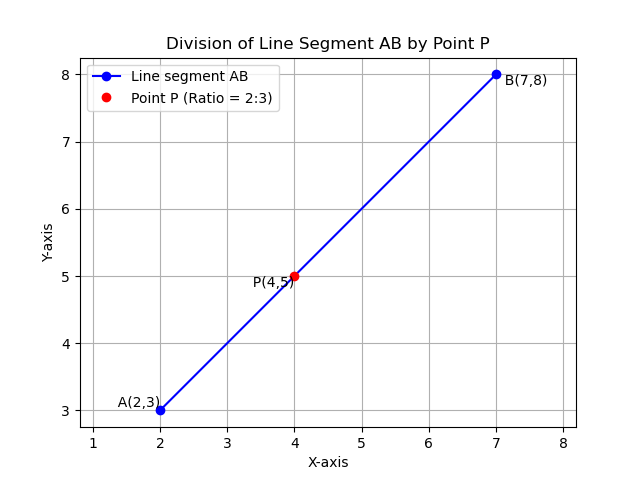
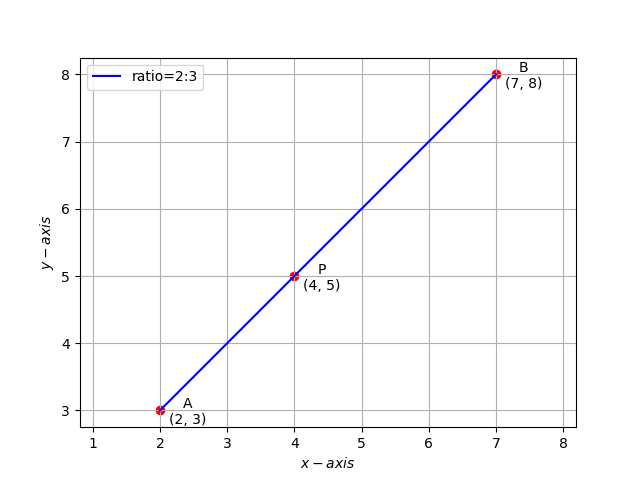
first

diff --git a/assign2/codes/o.py b/assign2/codes/o.py
@@ -1,4 +1,5 @@
 import matplotlib.pyplot as plt
+import numpy as np
 
 output_file_path = 'output.txt'
 
@@ -8,26 +9,64 @@ with open("output.txt", 'r') as file:
 import re
 match = re.search(r'(\d+):(\d+)\.', output)
 if match:
-    m = int(match.group(1))
-    n = int(match.group(2))
+    m1 = int(match.group(1))
+    m2 = int(match.group(2))
+#Given points
+A = np.array(([2,3])).reshape(-1,1)
+B = np.array(([7,8])).reshape(-1,1)
 
-x2, y2 = 2, 3  
-x3, y3 = 7, 8  
-x1, y1 = 4, 5  
+n=m2/m1
 
-plt.plot([x2, x3], [y2, y3], 'bo-', label='Line segment AB')
-plt.plot(x1, y1, 'ro', label=f'Point P (Ratio = {m}:{n})')
+#Point
+P= (B+n*A)/(1+n) # calculating the coordinate points of R which divides the join between the two points
+#print(R)
 
-plt.text(x2, y2, '  A(2,3)', verticalalignment='bottom', horizontalalignment='right')
-plt.text(x3, y3, '  B(7,8)', verticalalignment='top', horizontalalignment='left')
-plt.text(x1, y1, f'  P(4,5)', verticalalignment='top', horizontalalignment='right')
+#Generate line points
+def line_gen(A,B):
+  len =10
+  dim = A.shape[0]
+  x_AB = np.zeros((dim,len))
+  lam_1 = np.linspace(0,1,len)
+  for i in range(len):
+    temp1 = A + lam_1[i]*(B-A)
+    x_AB[:,i]= temp1.T
+  return x_AB
+  
+  #Generating all lines
+x_AB = line_gen(A,B)
 
-plt.xlabel('X-axis')
-plt.ylabel('Y-axis')
-plt.title('Division of Line Segment AB by Point P')
-plt.grid(True)
-plt.legend()
+#Plotting all lines
+plt.plot(x_AB[0,:],x_AB[1,:],label='$AB$',color='blue')
+
+#Labeling the coordinates
+tri_coords = np.block([[A,B,P]])
+plt.scatter(tri_coords[0,:], tri_coords[1,:],color='red')
+
+vert_labels = ['A','B','P']
+for i, txt in enumerate(vert_labels):
+    #plt.annotate(txt, # this is the text
+    plt.annotate(f'{txt}\n({tri_coords[0,i]:.0f}, {tri_coords[1,i]:.0f})',
+                 (tri_coords[0,i], tri_coords[1,i]), # this is the point to label
+                 textcoords="offset points", # how to position the text
+                 xytext=(20,-10), # distance from text to points (x,y)
+                 ha='center') # horizontal alignment can be left, right or center
+                 
+# use set_position
+ax = plt.gca()
+#ax.spines['top'].set_color('red')
+#ax.spines['left'].set_position('zero')
+#ax.spines['right'].set_color('none')
+#ax.spines['bottom'].set_position('zero')
+ax.spines['left'].set_visible(True)
+ax.spines['right'].set_visible(True)
+ax.spines['top'].set_visible(True)
+ax.spines['bottom'].set_visible(True)
+plt.xlabel('$x-axis$')
+plt.ylabel('$y-axis$')
+plt.legend(['ratio=2:3'],loc="upper left")
+plt.grid() # minor
 plt.axis('equal')
+
 
 plt.savefig('fig.png')
 plt.show()

diff --git a/assign2/assign2.tex b/assign2/assign2.tex
@@ -56,7 +56,7 @@ Question$\colon$
 solution $\colon$
 \begin{table}[h!]
  \centering
- \input{table.tex}
+ \input{table/table.tex}
  \caption{variable used}
 \end{table}\\
  $P\myvec{4&5}$ divides $A$ and $B$ in the ratio $k\colon1$
@@ -73,7 +73,7 @@ k&=\frac{2}{3}\\
  \end{align}
  \begin{figure}[h!]
   \centering
-  \includegraphics[width=1\linewidth]{fig.png}
+  \includegraphics[width=1\linewidth]{fig/fig.png}
   \caption{plot of A,B and P}
  \end{figure}
  
